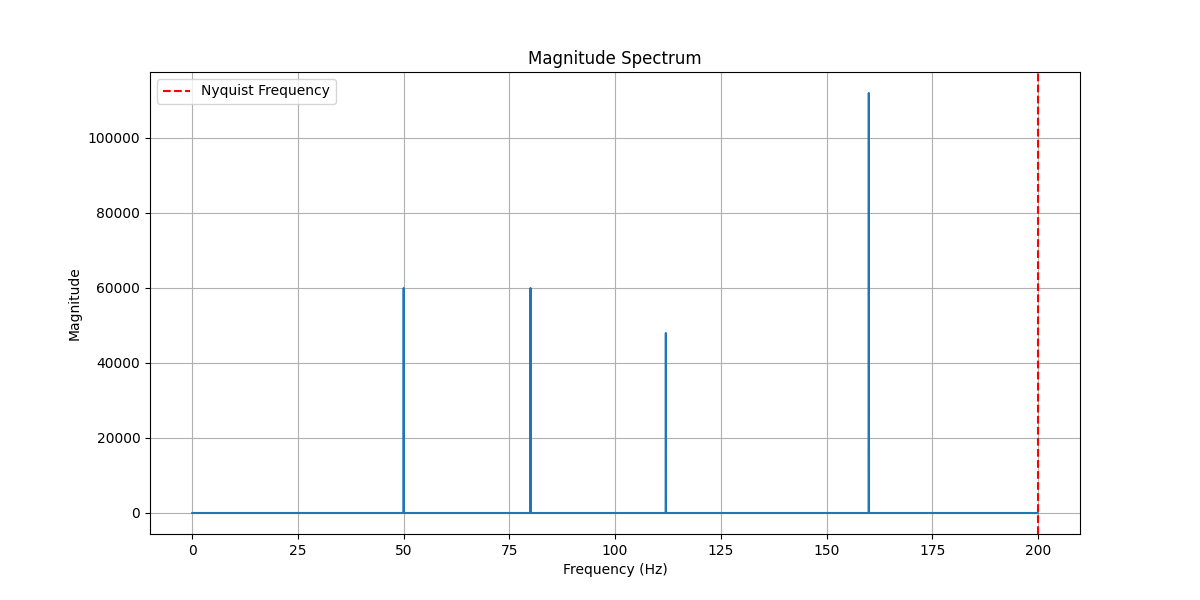
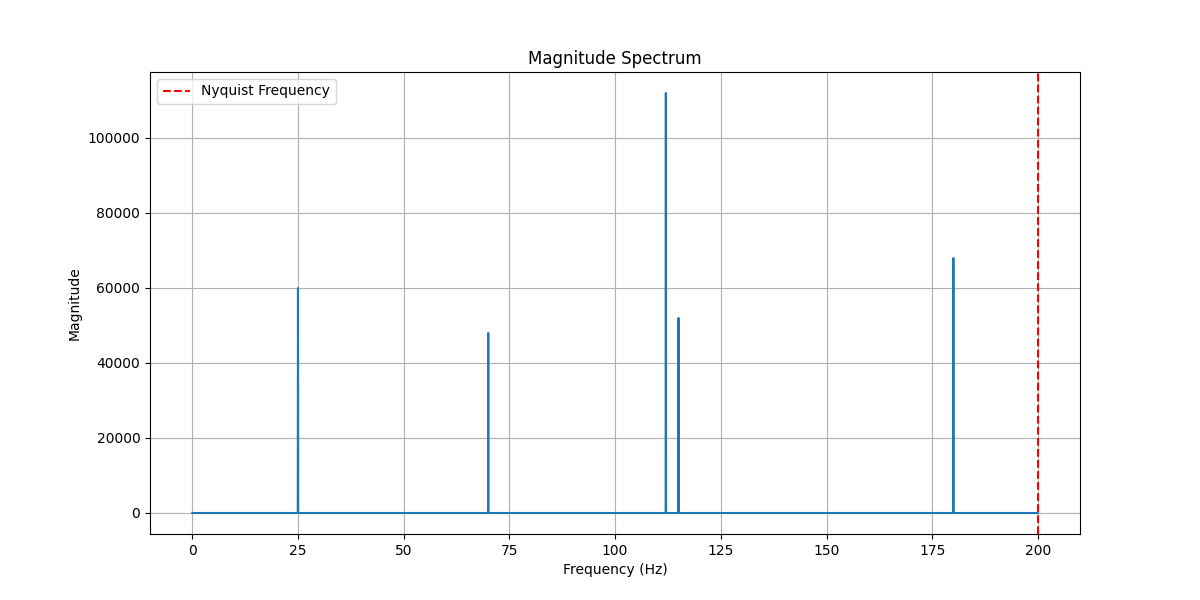
fft_v berger feature gen, docs

Changed region(s): [[0.2467, 0.63, 0.2775, 0.84]]

diff --git a/Combined_Simulator/shiao/processing_elements/rtl_wrappers/fft_verilog.py b/Combined_Simulator/shiao/processing_elements/rtl_wrappers/fft_verilog.py
@@ -6,34 +6,71 @@ from cocotb.types import LogicArray
 import matplotlib.pyplot as plt
 import math
 
+'''
+##################################
+
+This module takes in a sampled signal and performs the dft to provide a frequency domain representation of the signal.
+
+This module is an interface for the hardware level fft module.
+
+It provides an abstraction for the fft module, allowing it to be easily used in the pipeline for testing.
+It is logically identical, however makes use of pre and post buffering to allow for easy logical testing.
+
+This module in particular is heavily commented to provide guidance for the development of other rtl wrappers.
+
+These wrappers heavily depend on the context of the rtl module they are interfacing with, 
+so it is important to thoroughly understand the rtl module before developing the wrapper.
+
+Also look at the cocotb documentation.
+
+# Inputs
+- dut [cocotb handle]                   handle to the "design under test", in this case the fft (this is a cocotb feature)
+- sampled_signals [np.array::float]     list of sampled signals
+- sample_freq [float]                   frequency of the samples taken (Hz)
+- berger_bands [List::Tuple]            list of tuples of the berger bands (Hz)
+- saveGraphs [Bool]                     boolean determining if graphs are generated
+
+# Outputs
+- fft_power_features [np.array::float]  list of power estimates in the berger bands for each signal
+- output_spectrum [png]                 plot of the output spectrum
+- magnitude_spectrum [png]              plot of the magnitude spectrum
+- power_in_berger_bands [png]           plot of the power in the berger bands
+
+##################################
+'''
+
 async def fft_verilog(dut,
+                      fft_clk_freq,
                       sampled_signals, 
                       sample_freq, 
                       berger_bands,
                       saveGraphs=False):
     
-    nyquist_freq = sample_freq / 2 # Nyquist frequency, max frequency that can be represented in the signal
-    num_samples = sampled_signals[0].shape[0]
 
-    # zero pad the sampled signals to 8192 samples
+    # initial setup --------------------
+    nyquist_freq = sample_freq / 2 # Nyquist frequency, max frequency that can be represented in the signal
+    num_samples = sampled_signals[0].shape[0] # how many samples given
+
+    # spiral fft requires a power of 2 number of samples
+    # so we zero pad 8000 samples to 8192 because a signal of zero does not affect the frequency domain
     for i in range(len(sampled_signals)):
         sampled_signals[i] = np.pad(sampled_signals[i], (0, 8192 - len(sampled_signals[i])), 'constant', constant_values=(0, 0))
 
-    num_samples = 8192
+    # updating num_samples from 8000 to 8192
+    num_samples = sampled_signals[0].shape[0]
 
-    print(f"sampled signal: {sampled_signals[0][0:10]}")
+    # print(f"sampled signal: {sampled_signals[0][0:10]}") debug
     
     # helper functions ---------
 
+    # convert frequency to period in ns, useful for clock setup
     def HzToPeriodNs(freq):
         period_unrounded = ((1 / freq) * 1e9)
         return math.ceil(period_unrounded)
     
+    # helper function to assign inputs to fft module
+    # as the fft module can only take 4 inputs at a time, we need to assign them in groups of 4
     def setInputs(dut, input_real, input_imag):
-        # 4 concurrent inputs
-
-        # print(f"full val: {input_real[0]}, int val: {int(input_real[0])}") # issues here...
-
         dut.fft_X0.value = int(input_real[0])
         dut.fft_X1.value = int(input_imag[0])
         dut.fft_X2.value = int(input_real[1])
@@ -47,8 +84,7 @@ async def fft_verilog(dut,
     # setup --------------------
 
     # clock
-    fft_clk_freq = 100_000 # 15.7 MHz
-    fft_clk_period = HzToPeriodNs(fft_clk_freq) # period in ns
+    fft_clk_period = HzToPeriodNs(fft_clk_freq) # clock frequency -> period in ns for cocotb interface
 
     # starting the clock
     fft_clk = Clock(dut.fft_clk, fft_clk_period, units="ns")  # Create a clock for dut
@@ -81,11 +117,11 @@ async def fft_verilog(dut,
     signal_in = sampled_signals[0]
 
     # input flag = 1
-    dut.fft_next.value = 1 # set the flag to 1
+    dut.fft_next.value = 1 # set the flag to 1, this means data in from next cycle onwards
     await RisingEdge(dut.fft_clk) # wait for rising edge
     dut.fft_next.value = 0 # reset the flag
 
-    # input loop while the input loop exists
+    # input loop while the input data exists, keep inputting data until there is no more.
     while len(signal_in) >= 4:
         # wait for falling edge to latch inputs
         await FallingEdge(dut.fft_clk)
@@ -99,27 +135,29 @@ async def fft_verilog(dut,
         await RisingEdge(dut.fft_clk)
         cycles_run += 1
 
-    # data ready check -------------------
+    # when all input data has been inputted, set input data = 0 so no artifacts
+    setInputs(dut=dut,
+            input_real=[0, 0, 0, 0],
+            input_imag=[0, 0, 0, 0])
 
+    # data ready check -------------------
     is_data_ready = False # flag set by dut.next_out
     while not is_data_ready:
         await RisingEdge(dut.fft_clk)
         cycles_run += 1
         is_data_ready = LogicArray(dut.fft_next_out.value) == LogicArray("1") # checking if data ready, but also able to deal with "X" and "Z" outputs
-        # print(cycles_run, is_data_ready)
-        # is_data_ready = LogicArray(dut.fft_next_out.value) == LogicArray("1") # checking if data ready, but also able to deal with "X" and "Z" outputs
 
     # fft output loop -------------------
 
     # now data is ready
+    # arrays to store output data
     real_output = []
     imag_output = []
 
-    # read the output, 256 cycles for 1024 values
+    # read the output, 2048 cycles for 8192 values
     for i in range(2048):
         await RisingEdge(dut.fft_clk)
         cycles_run += 1
-
         real_output.append(dut.fft_Y0.value.integer)
         imag_output.append(dut.fft_Y1.value.integer)
         real_output.append(dut.fft_Y2.value.integer)
@@ -129,43 +167,71 @@ async def fft_verilog(dut,
         real_output.append(dut.fft_Y6.value.integer)
         imag_output.append(dut.fft_Y7.value.integer)
         #print(f"cycles run: {cycles_run}, dut.next_out.value: {dut.next_out.value}, next: {dut.next.value}")
-        # debug_print(cycles_run, dut)
+        #debug_print(cycles_run, dut)
 
+    # converting to numpy arrays for easier analysis of work done
     output_spectrum = np.zeros(num_samples)
     np_real_output = np.array(real_output)
     np_imag_output = np.array(imag_output)
 
-    print(np_real_output)
-    num_inf_nan = np.count_nonzero(np.isnan(np_real_output) | np.isinf(np_real_output))
-    print(f"Number of values in np_real_output that are inf or nan: {num_inf_nan}")
+    # helpful debugging code
+    # print(np_real_output)
+    # num_inf_nan = np.count_nonzero(np.isnan(np_real_output) | np.isinf(np_real_output))
+    # print(f"Number of values in np_real_output that are inf or nan: {num_inf_nan}")
 
-    print(np_imag_output)
-    num_inf_nan = np.count_nonzero(np.isnan(np_imag_output) | np.isinf(np_imag_output))
-    print(f"Number of values in np_imag_output that are inf or nan: {num_inf_nan}")
+    # print(np_imag_output)
+    # num_inf_nan = np.count_nonzero(np.isnan(np_imag_output) | np.isinf(np_imag_output))
+    # print(f"Number of values in np_imag_output that are inf or nan: {num_inf_nan}")
+
+    # data cleanup -------------------
 
     # replac vals in np_real and np_imag that are above a certain threshold with 0
+    # this is likely due to overflow in the fft module
     threshold = (2**31) - 1000
     np_real_output = np.where(np_real_output > threshold, 0, np_real_output)
     np_imag_output = np.where(np_imag_output > threshold, 0, np_imag_output)
 
+    # convert to magnitude spectrum from real and imaginary numbers
     for i in range(len(real_output)):
         output_spectrum[i] = np.sqrt(np_real_output[i]**2 + np_imag_output[i]**2)
 
-    print(output_spectrum)
-    num_inf_nan = np.count_nonzero(np.isnan(output_spectrum) | np.isinf(output_spectrum))
-    print(f"Number of values in output_spectrum that are inf or nan: {num_inf_nan}")
+    # helpful debugging code
+    # print(output_spectrum)
+    # num_inf_nan = np.count_nonzero(np.isnan(output_spectrum) | np.isinf(output_spectrum))
+    # print(f"Number of values in output_spectrum that are inf or nan: {num_inf_nan}")
     
-    # midpoint = len(output_spectrum) // 2
 
-    # reverse upper half
-    # output_spectrum[:midpoint] = output_spectrum[:midpoint][::-1]
+    # frequency spectrum -------------------
 
-    positive_freqs = output_spectrum[len(output_spectrum)//2:][::-1]
+    # the fft module seems to produce better results in the negative frequencies
+    # as the negative frequencies are a mirror of the positive frequencies, we can just reverse the positive frequencies
+    # so we take avg of positive and negative frequencies to ensure a lower probability of error
+    neg_freqs = output_spectrum[len(output_spectrum)//2:][::-1]
+    pos_freqs = output_spectrum[:len(output_spectrum)//2]
 
+    # take avg of positive and negative frequencies
+    positive_freqs = (neg_freqs + pos_freqs) / 2
+
+    # calculate the frequency bins
     sample_spacing = 1/sample_freq # how much time between samples
-    freq_bins = np.fft.fftfreq(num_samples, sample_spacing) # provide a frequency for each index of the fft output
-    print(freq_bins)
+
+    # provide a frequency for each index of the fft output
+    freq_bins = np.fft.fftfreq(num_samples, sample_spacing) 
     positive_freq_bins = freq_bins[:num_samples // 2] # only positive frequencies bins
+
+
+    # power estimate in berger bands from fft
+        # shiao - sum of the magnitudes of the fft output in the berger bands
+
+    fft_power_features = []
+
+    fft_power = np.zeros(len(berger_bands))
+    for band in berger_bands:
+        band_magnitudes = np.abs(positive_freqs[(positive_freq_bins >= band[0]) & (positive_freq_bins < band[1])])
+        band_power = np.sum(band_magnitudes)
+        fft_power[berger_bands.index(band)] = band_power
+    
+    fft_power_features.append(fft_power)
 
     # plotting the output spectrum
     if saveGraphs:
@@ -190,4 +256,14 @@ async def fft_verilog(dut,
         plt.grid()
         plt.savefig('plots/rtl_PEs/fft_output_spectrum')
 
-    return output_spectrum
+        # Plotting the power in the berger bands
+        plt.figure(figsize=(12, 6))
+        plt.bar(range(len(berger_bands)), fft_power)
+        plt.xticks(ticks=range(len(berger_bands)), labels=[str(band) for band in berger_bands])
+        plt.title('Power in Berger Bands')
+        plt.xlabel('Band')
+        plt.ylabel('Power')
+        plt.grid()
+        plt.savefig('plots/rtl_PEs/fft_power_in_berger_bands.png')
+
+    return fft_power_features

diff --git a/Combined_Simulator/shiao/pipeline.py b/Combined_Simulator/shiao/pipeline.py
@@ -40,8 +40,13 @@ async def test_fft_verilog(dut):
     
     # sample ieeg signals ----------------------------------------------------------------------------
     
-    generated_signal_frequencies = [50, 80, 112, 160]
-    generated_signal_amplitudes =  [15, 15, 12, 28]
+    # to show bbf alg issues
+    # generated_signal_frequencies = [2, 25, 70, 112, 115]    
+    # generated_signal_amplitudes =  [15, 15, 12, 28, 13]
+
+    # good demonstration of fft verilog signal and diff to ground truth.
+    generated_signal_frequencies = [25, 70, 112, 115, 180]
+    generated_signal_amplitudes =  [15, 12, 28, 13, 17]
 
     sampled_signals = sample_signals(num_channels=num_channels, 
                                      sample_window=sample_window, 
@@ -58,11 +63,14 @@ async def test_fft_verilog(dut):
                               saveGraphs=True)
     
     # spiral fft
-    fft_temp_out = await fft_verilog(dut=dut,
+    fft_power_features_v = await fft_verilog(dut=dut,
+                                     fft_clk_freq=15_700_000, # simulation clock frequency
                                     sampled_signals=sampled_signals, 
                                     sample_freq=sample_freq,
                                     berger_bands=berger_bands,
                                     saveGraphs=True)
+    
+    # make a feature gen for fft_verilog.
 
     # bbf --------------------------------------------------------------------------------------------
 

diff --git a/Combined_Simulator/shiao/processing_elements/python_PEs/bbf.py b/Combined_Simulator/shiao/processing_elements/python_PEs/bbf.py
@@ -47,9 +47,19 @@ def bbf_py(sampled_signals, sample_freq, berger_bands, saveGraphs=False):
     
         for lowcut, highcut in berger_bands:
             filtered_signal = butter_bandpass_filter(samples, lowcut, highcut, sample_freq, order=5)
+
+            # normalize the filtered signal
+            # filtered_signal = filtered_signal * 0.25
+
             power = np.sum( np.square(filtered_signal) )
 
-            if np.isinf(power) or np.isnan(power): # this is a fix
+            if np.isinf(power) or np.isnan(power): # idk why this happens yet
+                num_inf_nan = np.count_nonzero(np.isnan(power) | np.isinf(power))
+                print(f"filter band: {lowcut}-{highcut} Hz")
+                print(f"Number of values in power that are inf or nan: {num_inf_nan}, power: {power}")
+                print(f"filtered_signal: {filtered_signal}")
+
+            if np.isinf(power) or np.isnan(power): # this is a fix idk why this happens
                 power = 0
             power_bands.append(power)
 

diff --git a/README.md b/README.md
@@ -48,10 +48,33 @@ The simulator was developed in a GitHub Codespaces environment, which is a Linux
 
 `Linux codespaces 6.5.0-1022-azure #23~22.04.1-Ubuntu SMP x86_64 x86_64 x86_64 GNU/Linux`
 
-Furthermore, the simulator uses Python 3.10.14 as its interface. There are a few dependencies that need to be installed to run the simulator. The dependencies are in the [environment.yml](./environment.yml) file. You can easily create an identical conda environment by running the following command. This should get you set up.
+Furthermore, the simulator uses Python 3.10.14 as its interface. There are a few dependencies that need to be installed to run the simulator. The dependencies are in the [environment.yml](./environment.yml) file. You can easily create and activate an identical conda environment by running the following command. This should get you set up.
 
 ```sh
 conda env create -f environment.yml
+conda activate scalo_sim
+```
+
+Then you can run the example shiao pipeline by first going to the [shiao](./Combined_Simulator/shiao) directory and running the following command.
+
+```sh
+make
+```
+
+### Makefile
+
+The makefile should include the following components. It's used by cocotb to define the simulation environment.
+
+```makefile
+TOPLEVEL_LANG = verilog
+```
+
+```makefile
+VERILOG_SOURCES = $(shell pwd)/processing_elements/rtl_toplevel/seizure_pipe.v
+VERILOG_SOURCES += $(shell pwd)/processing_elements/rtl_PEs/spiral_fft_8192.v
+TOPLEVEL = seizure_pipe
+MODULE = pipeline
+include $(shell cocotb-config --makefiles)/Makefile.sim
 ```
 
 # --- old docs ---
